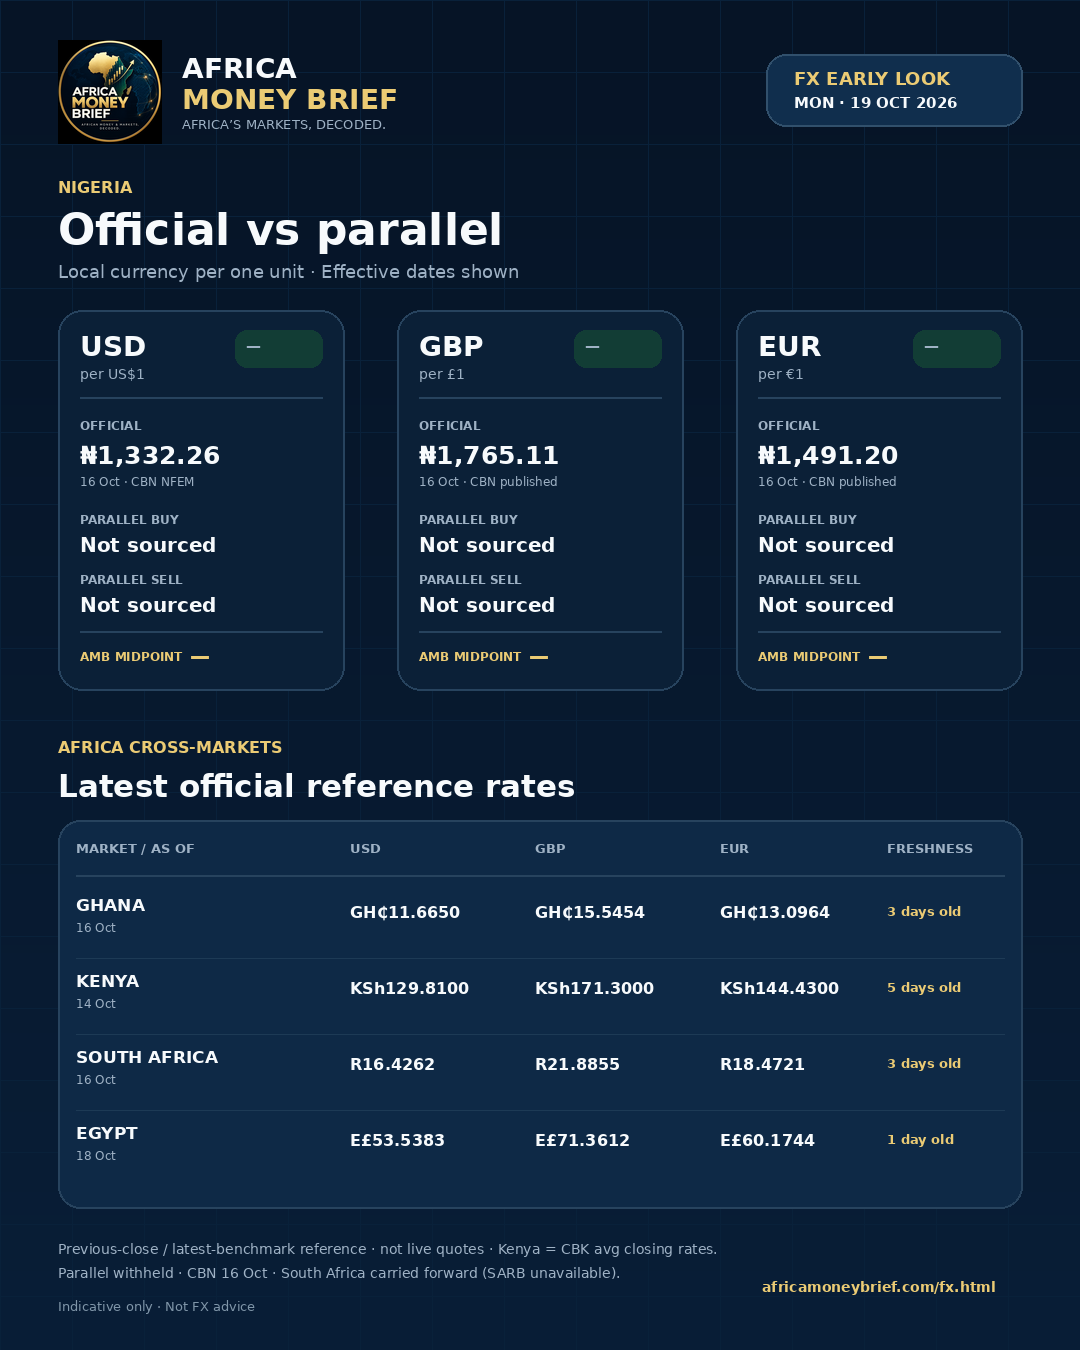
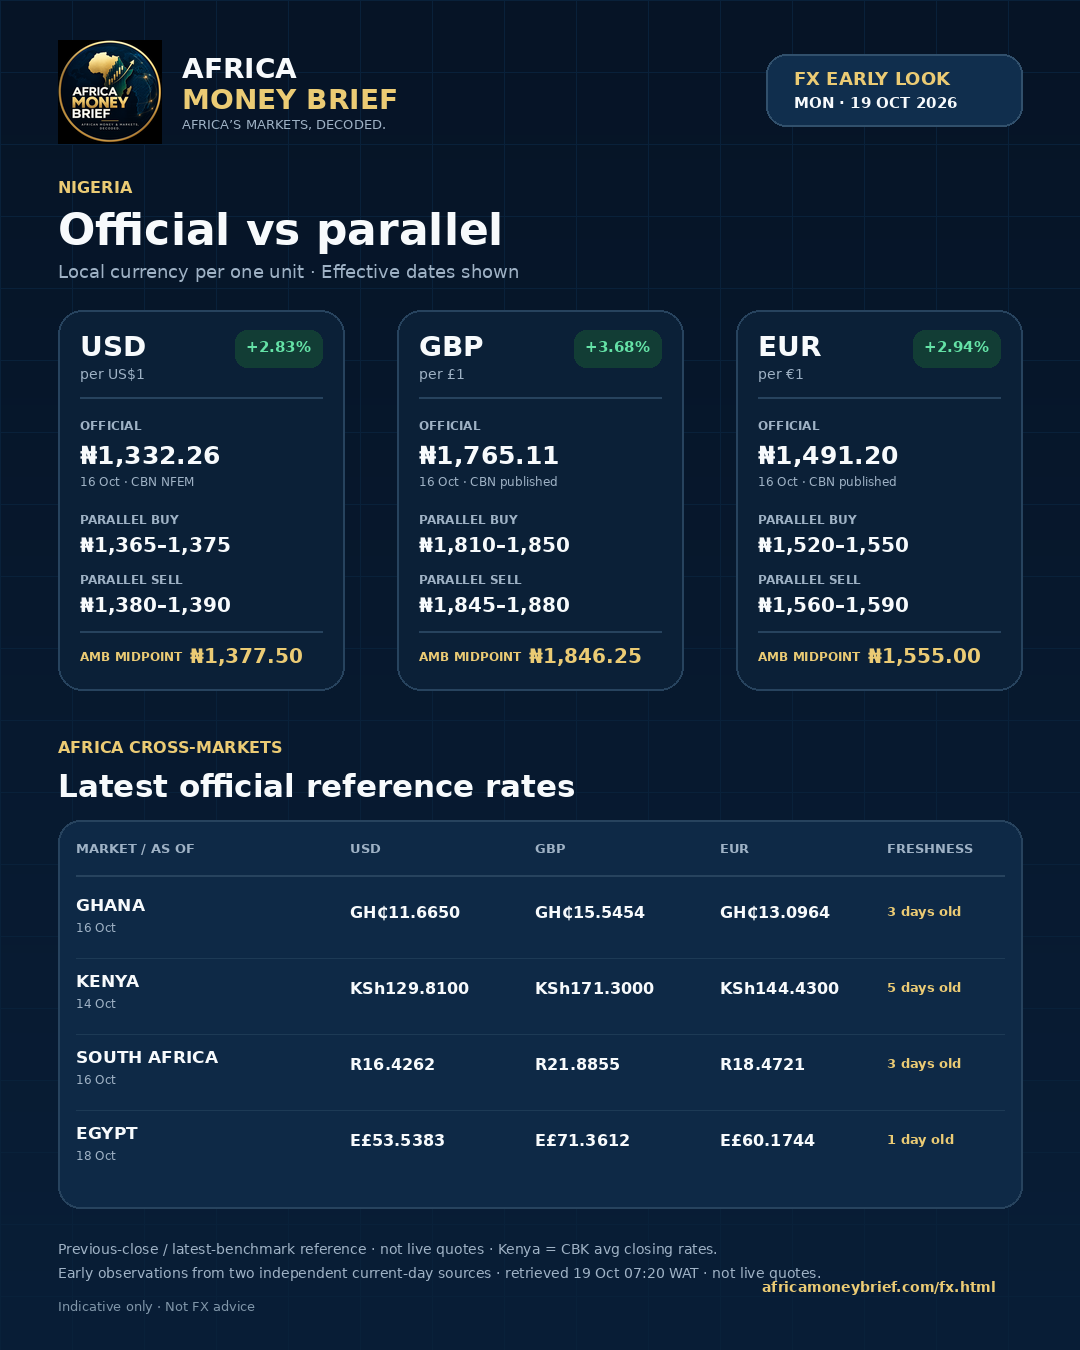
VALIDATED Early Look 2026-10-19

diff --git a/fx.html b/fx.html
@@ -4,11 +4,11 @@
 <script defer src="assets/privacy.js"></script>
 <meta charset="utf-8"><meta name="viewport" content="width=device-width,initial-scale=1"><meta name="description" content="Official and parallel exchange rates for Nigeria plus Ghana, Kenya, South Africa and Egypt, each with its effective date."><meta name="theme-color" content="#061426"><link rel="canonical" href="https://africamoneybrief.com/fx.html"><meta property="og:site_name" content="Africa Money Brief"><meta property="og:title" content="FX Markets | Africa Money Brief"><meta property="og:description" content="Official and parallel exchange rates for Nigeria plus Ghana, Kenya, South Africa and Egypt, each with its effective date."><meta property="og:image" content="https://africamoneybrief.com/assets/africa-money-brief-cover.png"><meta property="og:type" content="website"><meta name="twitter:card" content="summary_large_image"><title>FX Markets | Africa Money Brief</title><link rel="icon" type="image/png" href="assets/africa-money-brief-logo.png"><link rel="stylesheet" href="styles.css"><link rel="stylesheet" href="assets/redesign.css"></head><body><header><a class="logo brand-logo" href="index.html"><img src="assets/africa-money-brief-logo.png" alt="Africa Money Brief logo"><span>AFRICA <em>MONEY BRIEF</em><small>AFRICA’S MARKETS, DECODED.</small></span></a><nav><a class="" href="index.html">HOME</a><a class="active" href="fx.html">FX</a><a class="" href="capital-markets.html">CAPITAL MARKETS</a><a class="" href="money-rates.html">MONEY &amp; RATES</a><a class="" href="real-estate.html">REAL ESTATE</a><a class="" href="data.html">DATA</a><a class="" href="archive.html">ARCHIVE</a><a class="x" href="https://x.com/AMBriefDaily">Follow @AMBriefDaily ↗</a></nav></header>
 <main><section class="subhero"><div><p class="eyebrow">FX MARKETS</p><h1>Currencies.<br><i>Clearly decoded.</i></h1><p class="lead">Official rates, parallel markets, spreads, reserves and the policy forces moving African currencies.</p></div><div class="subhero-brand"><img src="assets/africa-money-brief-logo.png" alt="Africa Money Brief"><span>AFRICA’S MARKETS,<br><b>DECODED.</b></span></div></section>
-<div class="v2"><section class="section" style="padding-bottom:0"><!--AMB:early-latest--><div class="v2"><details id="early-look-2026-10-19" open><summary>19 Oct · Early Look (pre-market)</summary><section class="section"><p class="eyebrow">FX EARLY LOOK · 19 OCT 2026 · PRE-MARKET</p><p class="lead">Latest-benchmark reference only; not live opening quotes. Each figure carries its own effective date. Nigeria parallel-market ranges are withheld this morning.</p>
-<div class="tw"><table><thead><tr><th>Currency</th><th>Nigeria official</th><th>Parallel buy / sell</th><th>Premium</th></tr></thead><tbody><tr><td>USD</td><td>₦1,332.26 <small>(16 Oct, CBN selling)</small></td><td>Not sourced</td><td class="prem">—</td></tr><tr><td>GBP</td><td>₦1,765.11 <small>(16 Oct, CBN selling)</small></td><td>Not sourced</td><td class="prem">—</td></tr><tr><td>EUR</td><td>₦1,491.20 <small>(16 Oct, CBN selling)</small></td><td>Not sourced</td><td class="prem">—</td></tr></tbody></table></div>
-<p class="fine">CBN benchmark rates are those of 16 Oct (19 Oct not yet posted; the NFEM average reflects interbank deals only). Nigeria parallel-market ranges are withheld: fewer than two independent, timestamped observations could be verified, so no premium is shown.</p>
+<div class="v2"><section class="section" style="padding-bottom:0"><!--AMB:early-latest--><div class="v2"><details id="early-look-2026-10-19" open><summary>19 Oct · Early Look (pre-market)</summary><section class="section"><p class="eyebrow">FX EARLY LOOK · 19 OCT 2026 · PRE-MARKET</p><p class="lead">Early observations and latest-benchmark reference only; not live opening quotes. Each figure carries its own effective date.</p>
+<div class="tw"><table><thead><tr><th>Currency</th><th>Nigeria official</th><th>Parallel buy / sell</th><th>Premium</th></tr></thead><tbody><tr><td>USD</td><td>₦1,332.26 <small>(16 Oct, CBN selling)</small></td><td>₦1,365–1,375 / ₦1,380–1,390</td><td class="prem">+2.83%</td></tr><tr><td>GBP</td><td>₦1,765.11 <small>(16 Oct, CBN selling)</small></td><td>₦1,810–1,850 / ₦1,845–1,880</td><td class="prem">+3.68%</td></tr><tr><td>EUR</td><td>₦1,491.20 <small>(16 Oct, CBN selling)</small></td><td>₦1,520–1,550 / ₦1,560–1,590</td><td class="prem">+2.94%</td></tr></tbody></table></div>
+<p class="fine">CBN benchmark rates are those of 16 Oct (19 Oct not yet posted; the NFEM average reflects interbank deals only). Nigeria parallel ranges combine two independent 19 Oct early observations retrieved at 07:20 WAT; they are not live opening quotes. Aggregated from multiple independent market sources.</p>
 <h3 style="margin:22px 0 10px">Africa cross-markets</h3><div class="tw"><table><thead><tr><th>Market</th><th>USD</th><th>GBP</th><th>EUR</th><th>As of</th></tr></thead><tbody><tr><td>Ghana</td><td>GH₵11.6650</td><td>GH₵15.5454</td><td>GH₵13.0964</td><td>16 Oct <span class="chip warn">3 days old</span></td></tr><tr><td>Kenya</td><td>KSh129.8100</td><td>KSh171.3000</td><td>KSh144.4300</td><td>14 Oct <span class="chip warn">5 days old</span></td></tr><tr><td>South Africa</td><td>R16.4262</td><td>R21.8855</td><td>R18.4721</td><td>16 Oct <span class="chip warn">3 days old</span></td></tr><tr><td>Egypt</td><td>E£53.5383</td><td>E£71.3612</td><td>E£60.1744</td><td>18 Oct <span class="chip ok">1 day old</span></td></tr></tbody></table></div>
-<p class="fine">Latest official reference values with effective dates: Ghana mid of Bank of Ghana buy/sell (16 Oct); Kenya CBK commercial-banks’ average closing rates (market close 14 Oct, latest posting; not a standalone buy or sell quote); South Africa SARB weighted-average bank rates (16 Oct, carried forward — source not retrievable this morning); Egypt mid of CBE buy/sell (18 Oct). Informational only; not financial or FX advice. The Flagship edition follows after verification.</p></section></details></div><!--/AMB:early-latest--></section><!--AMB:flagship--><section class="section" id="flagship-2026-10-16"><p class="eyebrow">FX FLAGSHIP · EDITION 16 OCT 2026</p><h2 class="h2s" style="margin-top:8px">Nigeria — official vs parallel</h2>
+<p class="fine">Latest official reference values with effective dates: Ghana mid of Bank of Ghana buy/sell (16 Oct); Kenya CBK commercial-banks’ average closing rates (market close 14 Oct, latest posting; not a standalone buy or sell quote); South Africa SARB weighted-average bank rates (16 Oct, reverified through HomePageRates); Egypt mid of CBE buy/sell (18 Oct). Informational only; not financial or FX advice. The Flagship edition follows after verification.</p></section></details></div><!--/AMB:early-latest--></section><!--AMB:flagship--><section class="section" id="flagship-2026-10-16"><p class="eyebrow">FX FLAGSHIP · EDITION 16 OCT 2026</p><h2 class="h2s" style="margin-top:8px">Nigeria — official vs parallel</h2>
 <p class="lead">Local currency per one unit of foreign currency. Every figure carries its effective date.</p>
 <div class="panel"><div class="ph"><h3>USD → NGN <small>per US$1</small></h3><span class="prem big">+2.69%</span></div><div class="grid4"><div><small>CBN NFEM rate · 15 Oct</small><b>₦1,331.61</b></div><div><small>Parallel buy</small><b>₦1,365–1,370</b></div><div><small>Parallel sell</small><b>₦1,375</b></div><div><small>AMB midpoint</small><b class="gold">₦1,371.25</b></div></div><p class='basis'>CBN NFEM rate (volume-weighted; the CBN’s official selling rate for the day), 15 Oct. The premium uses this rate. Source: <a href='https://www.cbn.gov.ng/rates/ExchRateByCurrency.html'>CBN ↗</a></p></div><div class="panel"><div class="ph"><h3>GBP → NGN <small>per £1</small></h3><span class="prem big">+2.31%</span></div><div class="grid4"><div><small>CBN published rate · 15 Oct</small><b>₦1,764.26</b></div><div><small>Parallel buy</small><b>₦1,800–1,810</b></div><div><small>Parallel sell</small><b>₦1,820–1,850</b></div><div><small>AMB midpoint</small><b class="gold">₦1,820.00</b></div></div><p class='basis'>CBN published selling rate, 15 Oct. The premium uses this rate. Source: <a href='https://www.cbn.gov.ng/rates/ExchRateByCurrency.html'>CBN ↗</a></p></div><div class="panel"><div class="ph"><h3>EUR → NGN <small>per €1</small></h3><span class="prem big">+1.65%</span></div><div class="grid4"><div><small>CBN published rate · 15 Oct</small><b>₦1,490.48</b></div><div><small>Parallel buy</small><b>₦1,510–1,520</b></div><div><small>Parallel sell</small><b>₦1,530–1,560</b></div><div><small>AMB midpoint</small><b class="gold">₦1,530.00</b></div></div><p class='basis'>CBN published selling rate, 15 Oct. The premium uses this rate. Source: <a href='https://www.cbn.gov.ng/rates/ExchRateByCurrency.html'>CBN ↗</a></p></div>
 <p class="fine">Nigeria’s 16 Oct parallel-market observations show a narrow USD range and wider GBP and EUR sell-side dispersion; ranges preserve two independent same-day observations. CBN benchmark rates are those of 15 Oct (the 16 Oct row was not yet posted). Aggregated from multiple independent market sources. Premium = parallel buying midpoint ÷ CBN selling rate − 1. Indicative only; not FX advice.</p>

diff --git a/index.html b/index.html
@@ -8,7 +8,7 @@
 <section class="hero"><div><p class="eyebrow">AFRICA’S MARKETS, MADE CLEAR</p><h1>Know the rates.<br><i>Understand the move.</i></h1><p class="lead">African FX benchmarks, central-bank signals and market context — concise enough for your morning, rigorous enough for your decisions.</p><div class="actions"><a class="btn" href="fx.html">Today’s FX brief →</a><a class="ghost" href="https://x.com/AMBriefDaily">Follow on X</a></div><div class="trust">✓ Source-aware &nbsp;&nbsp; ✓ Time-stamped &nbsp;&nbsp; ✓ Official vs. market clearly labeled</div></div>
 <!--AMB:board--><div class="board"><div class="boardtop"><span>NIGERIA · PARALLEL BUY MIDPOINT</span><span class="live">EDITION 16 OCT</span></div><div id="mini"><div class="r"><div>USD/NGN<small>CBN NFEM ₦1,331.61 · 15 Oct</small></div><strong>₦1,367.50 <span class="prem" style="color:#64e2a6;font-size:14px">+2.69%</span></strong></div><div class="r"><div>GBP/NGN<small>CBN published ₦1,764.26 · 15 Oct</small></div><strong>₦1,805.00 <span class="prem" style="color:#64e2a6;font-size:14px">+2.31%</span></strong></div><div class="r"><div>EUR/NGN<small>CBN published ₦1,490.48 · 15 Oct</small></div><strong>₦1,515.00 <span class="prem" style="color:#64e2a6;font-size:14px">+1.65%</span></strong></div></div><p id="verified">Premium = parallel buying midpoint ÷ CBN selling rate − 1. Edition 16 Oct. Indicative only.</p></div><!--/AMB:board--></section>
 
-<!--AMB:early-home--><div class="v2"><section class="section"><div class="heading"><div><p class="eyebrow">TODAY'S FX EARLY LOOK · 19 OCT 2026</p><h2>Previous close and latest benchmarks</h2></div><p>Pre-market reference; not live opening quotes. <a href="fx.html#early-look-2026-10-19" style="color:var(--gold)">Full Early Look →</a></p></div><div class="dashgrid"><div class="metric"><small>USD / NGN · 16 Oct</small><strong>—</strong><span>CBN ₦1,332.26 · Parallel range withheld</span></div><div class="metric"><small>GBP / NGN · 16 Oct</small><strong>—</strong><span>CBN ₦1,765.11 · Parallel range withheld</span></div><div class="metric"><small>EUR / NGN · 16 Oct</small><strong>—</strong><span>CBN ₦1,491.20 · Parallel range withheld</span></div><div class="metric"><small>AFRICA CROSS-MARKETS</small><strong>4 markets</strong><span>GH 16 Oct · KE 14 Oct · ZA 16 Oct · EG 18 Oct</span></div></div><p class="fine">Nigeria parallel ranges: previous close / early; aggregated from multiple independent market sources. Effective dates are shown in the full edition. Indicative only; not FX advice.</p></section></div><!--/AMB:early-home--><div class="mr"><section class="section" id="calc"><div class="heading"><div><p class="eyebrow">ESTIMATE EARNINGS</p><h2>What would my money earn?</h2></div><p>Pick a Treasury bill or deposit, enter an amount, and see the simple interest. <a href="money-rates.html" style="color:var(--gold)">Compare all rates →</a></p></div><div class="calc" id="amb-calc"><div><div class="f"><label for="cp">PRODUCT</label><select id="cp"></select></div><div class="f"><label for="ca">AMOUNT</label><input id="ca" type="number" inputmode="decimal" min="0" step="1000" value="10000000"></div><div class="f" id="cmw"><label for="cm">MONTHS HELD</label><input id="cm" type="number" min="1" max="12" step="1" value="12"></div></div>
+<!--AMB:early-home--><div class="v2"><section class="section"><div class="heading"><div><p class="eyebrow">TODAY'S FX EARLY LOOK · 19 OCT 2026</p><h2>Previous close and latest benchmarks</h2></div><p>Pre-market reference; not live opening quotes. <a href="fx.html#early-look-2026-10-19" style="color:var(--gold)">Full Early Look →</a></p></div><div class="dashgrid"><div class="metric"><small>USD / NGN · 16 Oct</small><strong>+2.83%</strong><span>CBN ₦1,332.26 · Buy ₦1,365–₦1,375 · Sell ₦1,380–₦1,390</span></div><div class="metric"><small>GBP / NGN · 16 Oct</small><strong>+3.68%</strong><span>CBN ₦1,765.11 · Buy ₦1,810–₦1,850 · Sell ₦1,845–₦1,880</span></div><div class="metric"><small>EUR / NGN · 16 Oct</small><strong>+2.94%</strong><span>CBN ₦1,491.20 · Buy ₦1,520–₦1,550 · Sell ₦1,560–₦1,590</span></div><div class="metric"><small>AFRICA CROSS-MARKETS</small><strong>4 markets</strong><span>GH 16 Oct · KE 14 Oct · ZA 16 Oct · EG 18 Oct</span></div></div><p class="fine">Nigeria parallel ranges: previous close / early; aggregated from multiple independent market sources. Effective dates are shown in the full edition. Indicative only; not FX advice.</p></section></div><!--/AMB:early-home--><div class="mr"><section class="section" id="calc"><div class="heading"><div><p class="eyebrow">ESTIMATE EARNINGS</p><h2>What would my money earn?</h2></div><p>Pick a Treasury bill or deposit, enter an amount, and see the simple interest. <a href="money-rates.html" style="color:var(--gold)">Compare all rates →</a></p></div><div class="calc" id="amb-calc"><div><div class="f"><label for="cp">PRODUCT</label><select id="cp"></select></div><div class="f"><label for="ca">AMOUNT</label><input id="ca" type="number" inputmode="decimal" min="0" step="1000" value="10000000"></div><div class="f" id="cmw"><label for="cm">MONTHS HELD</label><input id="cm" type="number" min="1" max="12" step="1" value="12"></div></div>
 <div class="res"><span id="cl">Estimated interest</span><strong id="ci">—</strong><span id="cs">Loading rates…</span><span style="font-size:12px;color:#8ba0b3">Indicative gross interest before tax, fees and exchange-rate changes. Source dates and older-data warnings appear above. Tiered bank rates depend on the entered balance; banking averages are not offers. Bills are held to maturity; deposit rates are assumed unchanged.</span></div></div>
 <script src="assets/calc.js?v=20261009-tiers"></script></section></div><!--AMB:glance--><div class="v2"><section class="section"><div class="heading"><div><p class="eyebrow">TODAY AT A GLANCE</p><h2>Premium: parallel buy vs CBN selling rate</h2></div><p>Edition 16 Oct 2026. CBN NFEM rate for USD; GBP and EUR as dated. <a href="fx.html" style="color:var(--gold)">Full FX brief →</a></p></div><div class="dashgrid"><div class="metric"><small>USD / NGN</small><strong>+2.69%</strong><span>Parallel buy mid ₦1,367.50 vs CBN ₦1,331.61</span></div><div class="metric"><small>GBP / NGN</small><strong>+2.31%</strong><span>Parallel buy mid ₦1,805.00 vs CBN ₦1,764.26</span></div><div class="metric"><small>EUR / NGN</small><strong>+1.65%</strong><span>Parallel buy mid ₦1,515.00 vs CBN ₦1,490.48</span></div><div class="metric"><small>Coverage</small><strong>5 markets</strong><span>NG · GH · KE · ZA · EG</span></div></div></section></div><!--/AMB:glance--><section class="section market-portals"><div class="heading"><div><p class="eyebrow">EXPLORE AMB</p><h2>Four markets. One African lens.</h2></div><p>Move from the daily headline to the market that matters to you.</p></div><div class="portalgrid">
 <a class="portal fxp" href="fx.html"><span class="portal-icon">FX</span><small>CURRENCIES</small><h3>FX Markets</h3><p>Official rates, parallel markets, spreads, reserves and currency policy.</p><b>Open FX →</b></a>

diff --git a/handoff/fx/2026-10-19-early.md b/handoff/fx/2026-10-19-early.md
@@ -1,11 +1,11 @@
 # Early Look 2026-10-19 — preparer handoff note
 
-**Status: PREPARED — NOT PUBLISHED**
-**Flags: BLOCKED_SOURCE (Nigeria parallel market; SARB HomePageRates) — partial package**
+**Status: VALIDATED — APPROVED FOR PUBLICATION**
+**Validator corrections: Nigeria parallel ranges restored; SARB reverified**
 
 - Branch: `staging/claude-fx` (synced with `main` @ `af1a3f8` before preparation)
 - Package commit SHA: `393e993` (note-only follow-up commit carries this file)
-- Verification timestamp: 19 Oct 2026, 06:20 WAT
+- Final verification timestamp: 19 Oct 2026, 07:20 WAT
 
 ## Official sources and effective dates
 
@@ -14,7 +14,7 @@
 | Nigeria | https://www.cbn.gov.ng/api/GetAllExchangeRates | 16 Oct (19 Oct not yet posted) | CBN selling 1332.2582 / 1765.1089 / 1491.1966 |
 | Ghana | https://www.bog.gov.gh/treasury-and-the-markets/daily-interbank-fx-rates/ | 16 Oct | mids 11.6650 / 15.5454 / 13.0964 (BoG buy/sell: 11.6592–11.6708; 15.5370–15.5537; 13.0904–13.1023) |
 | Kenya | https://www.centralbank.go.ke/ and /forex/ (Daily KES Exchange Rates) | latest posting 15 Oct; market close 14 Oct (unchanged from prior edition) | 129.81 / 171.30 / 144.43 — commercial-banks' average closing rates, not buy/sell quotes |
-| South Africa | https://custom.resbank.co.za/SarbWebApi/WebIndicators/HomePageRates | **16 Oct (carried forward)** | 16.4262 / 21.8855 / 18.4721 |
+| South Africa | https://custom.resbank.co.za/SarbWebApi/WebIndicators/HomePageRates | 16 Oct | 16.4262 / 21.8855 / 18.4721 |
 | Egypt | https://www.cbe.org.eg/en/economic-research/statistics/cbe-exchange-rates | 18 Oct | mids 53.5383 / 71.3612 / 60.1744 |
 
 ## Calculations
@@ -23,22 +23,30 @@
 - Ghana mids taken as published by BoG.
 - CBN selling rates are the 16 Oct `sellingrate` values (USD 1332.2582, GBP 1765.1089, EUR 1491.1966); day-on-day vs 15 Oct +0.05% each.
 
-## Carried-forward values and reasons
+## Validator corrections and calculations
 
-- **South Africa (16 Oct, 16.4262 / 21.8855 / 18.4721):** `custom.resbank.co.za` returned HTTP 403 at the sandbox proxy (CONNECT denied) and the public SARB page does not expose the table. Values are the verified 16 Oct figures already in the repository (`data/fx/latest.json`), shown with their true 16 Oct date and labelled as carried forward on the site, in the image footnote and in the social text. **BLOCKED_SOURCE — Codex should re-pull HomePageRates and replace if a newer fixing exists.**
+- **South Africa (16 Oct, 16.4262 / 21.8855 / 18.4721):** independently re-pulled from SARB HomePageRates at validation; values and effective date match the prepared dataset.
 - Kenya: CBK has not posted a newer row than 15 Oct; figures identical to the prior edition and shown as 14 Oct close.
 - CBE was retrieved directly (18 Oct); no carry-forward.
 
-## Nigeria parallel market — BLOCKED_SOURCE
+## Nigeria parallel market — independently corroborated
 
-Fewer than two independent, timestamped buy/sell observations per currency could be obtained from the preparer environment (most market sites unreachable; the one reachable aggregator page carries no observation timestamps and a single source only). No parallel range, midpoint or premium is published; per-currency parallel fields are omitted and the site/image/text show "Not sourced / withheld". No values were invented. Source A / Source B: none usable. **Codex: add parallel ranges only with two timestamped independent observations per currency (previous-close / early labelling).**
+Two independent current-day sources were retrieved on 19 Oct at 07:20 WAT:
+
+- Source A: https://gatekeepersnews.com/2026/10/19/daily-market-update-exchange-rates-and-commodity-prices-for-october-19-2026/ — USD 1365/1380; GBP 1810/1845; EUR 1520/1560.
+- Source B: https://nairatoday.com/ — USD 1375/1390; GBP 1850/1880; EUR 1550/1590.
+
+Validated disclosed ranges, midpoints and premiums:
+
+- USD buy 1365–1375, sell 1380–1390; buy midpoint 1370.00; AMB midpoint 1377.50; premium `(1370 / 1332.2582 − 1) × 100` = **2.83%**.
+- GBP buy 1810–1850, sell 1845–1880; buy midpoint 1830.00; AMB midpoint 1846.25; premium `(1830 / 1765.1089 − 1) × 100` = **3.68%**.
+- EUR buy 1520–1550, sell 1560–1590; buy midpoint 1535.00; AMB midpoint 1555.00; premium `(1535 / 1491.1966 − 1) × 100` = **2.94%**.
+
+GBP and EUR dispersion is intentionally preserved and documented with `range_flag_reason`. Public attribution remains exactly “Aggregated from multiple independent market sources.”
 
 ## Unresolved issues
 
-1. Nigeria parallel data (above).
-2. SARB 16 Oct values not re-verified this morning.
-3. `tools/render_fx_social_text.py`: one-line change so a market may supply its own `note` (used for the SA carry-forward disclosure; default behaviour unchanged).
-4. Site pages (`fx.html`, `index.html`, `archive.html`, `data/fx/index.json`) were regenerated by `tools/render.py` and are staged only; not deployed.
+None material. The package is approved after validator corrections and final rendering/visual QA.
 
 ## Render / test results
 
@@ -48,4 +56,4 @@ Fewer than two independent, timestamped buy/sell observations per currency could
 - Visual check: every number, date, label and footnote in the PNG compared against the dataset — match.
 - Provider-name scan of new files: clean.
 
-PREPARED — NOT PUBLISHED
+VALIDATED — APPROVED FOR PUBLICATION
